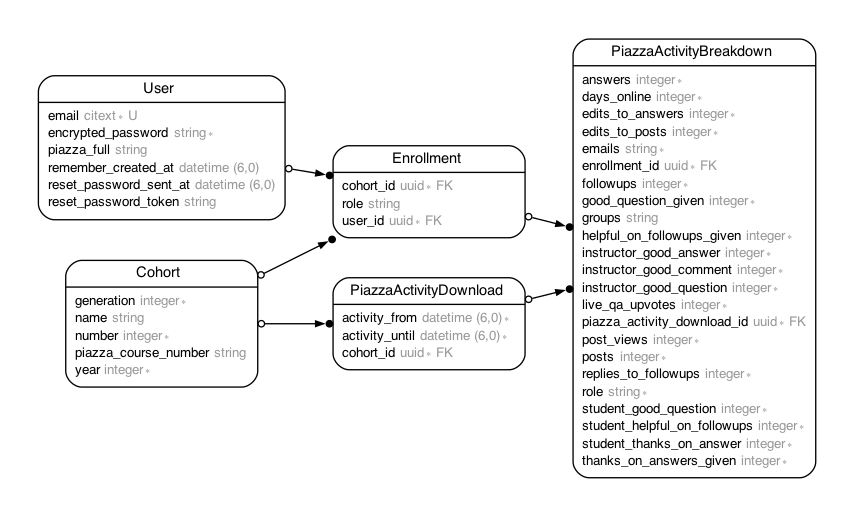
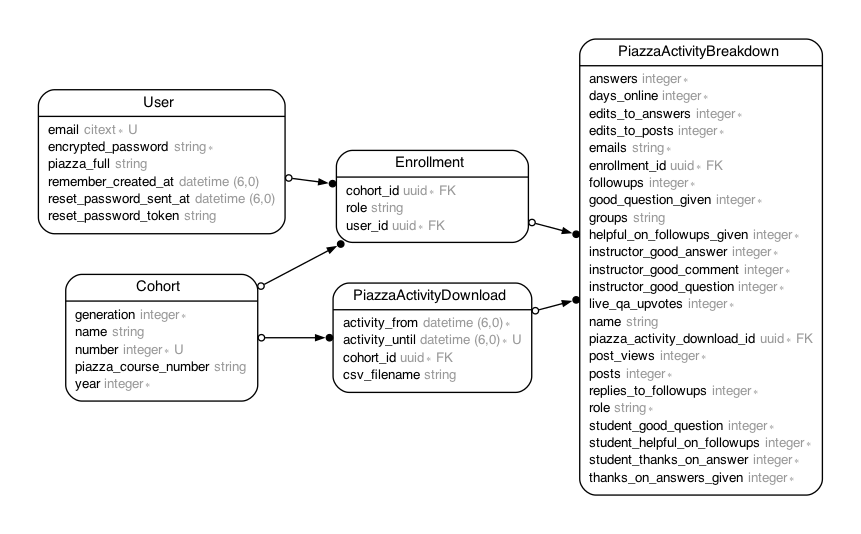
Add ability to upload Piazza data

Changed region(s): [[0.0304, 0.0619, 0.9742, 0.9284]]

diff --git a/app/models/piazza_activity_download.rb b/app/models/piazza_activity_download.rb
@@ -5,6 +5,7 @@
 #  id             :uuid             not null, primary key
 #  activity_from  :datetime         not null
 #  activity_until :datetime         not null
+#  csv_filename   :string
 #  created_at     :datetime         not null
 #  updated_at     :datetime         not null
 #  cohort_id      :uuid             not null
@@ -18,10 +19,47 @@
 #  fk_rails_...  (cohort_id => cohorts.id)
 #
 class PiazzaActivityDownload < ApplicationRecord
+  attr_accessor :csv_file
+
   belongs_to :cohort
 
   has_many :piazza_activity_breakdowns, dependent: :destroy
 
   validates :activity_from, presence: true
-  validates :activity_until, presence: true
+  validates :activity_until,
+    presence: true,
+    uniqueness: {scope: [:activity_from, :cohort]}
+  validates :csv_file, presence: true
+
+  after_create :process_csv
+
+  def process_csv
+    self.csv_filename = csv_file.original_filename
+
+    options = {key_mapping: {"live_q&a_upvotes": :live_qa_upvotes}}
+
+    csv = SmarterCSV.process(csv_file, options)
+
+    csv.each do |row|
+      emails = row.fetch(:emails).split(";").map(&:strip)
+
+      user = User.where(email: emails).first
+      
+      if user.blank?
+        user = User.new(email: emails.first, password: SecureRandom.hex(16))       
+      end
+
+      user.piazza_full = row.fetch(:name, "None provided")
+      user.save
+      ap user.errors.full_messages if user.errors.any?
+      ap user if user.errors.any?
+
+      enrollment = Enrollment.find_or_create_by(user: user, cohort: cohort) do |the_enrollment|
+        the_enrollment.role = row.fetch(:role)
+      end
+
+      piazza_activity_breakdown = piazza_activity_breakdowns.
+        create(enrollment:, **row)
+    end
+  end
 end

diff --git a/db/schema.rb b/db/schema.rb
@@ -10,7 +10,7 @@
 #
 # It's strongly recommended that you check this file into your version control system.
 
-ActiveRecord::Schema[7.0].define(version: 2023_03_10_174420) do
+ActiveRecord::Schema[7.0].define(version: 2023_03_14_202312) do
   # These are extensions that must be enabled in order to support this database
   enable_extension "citext"
   enable_extension "pgcrypto"
@@ -38,6 +38,7 @@ ActiveRecord::Schema[7.0].define(version: 2023_03_10_174420) do
 
   create_table "piazza_activity_breakdowns", id: :uuid, default: -> { "gen_random_uuid()" }, force: :cascade do |t|
     t.uuid "enrollment_id", null: false
+    t.string "name"
     t.string "emails", null: false
     t.string "role", null: false
     t.string "groups"
@@ -72,6 +73,7 @@ ActiveRecord::Schema[7.0].define(version: 2023_03_10_174420) do
     t.uuid "cohort_id", null: false
     t.datetime "created_at", null: false
     t.datetime "updated_at", null: false
+    t.string "csv_filename"
     t.index ["cohort_id"], name: "index_piazza_activity_downloads_on_cohort_id"
   end
 

diff --git a/db/seeds.rb b/db/seeds.rb
@@ -5,3 +5,26 @@
 #
 #   movies = Movie.create([{ name: "Star Wars" }, { name: "Lord of the Rings" }])
 #   Character.create(name: "Luke", movie: movies.first)
+
+Cohort.create(
+  [
+    {
+      year: 2022,
+      generation: 1,
+      number: 1,
+      name: "The Pioneers"
+    },
+    {
+      year: 2023,
+      generation: 1,
+      number: 1,
+      name: "Hash Rockets"
+    },
+    {
+      year: 2023,
+      generation: 2,
+      number: 1,
+      name: "Fullstack Pancakes"
+    }
+  ]
+)

diff --git a/app/models/piazza_activity_breakdown.rb b/app/models/piazza_activity_breakdown.rb
@@ -16,6 +16,7 @@
 #  instructor_good_comment      :integer          not null
 #  instructor_good_question     :integer          not null
 #  live_qa_upvotes              :integer          not null
+#  name                         :string
 #  post_views                   :integer          not null
 #  posts                        :integer          not null
 #  replies_to_followups         :integer          not null

diff --git a/spec/models/piazza_activity_breakdown_spec.rb b/spec/models/piazza_activity_breakdown_spec.rb
@@ -16,6 +16,7 @@
 #  instructor_good_comment      :integer          not null
 #  instructor_good_question     :integer          not null
 #  live_qa_upvotes              :integer          not null
+#  name                         :string
 #  post_views                   :integer          not null
 #  posts                        :integer          not null
 #  replies_to_followups         :integer          not null

diff --git a/app/controllers/piazza_activity_downloads_controller.rb b/app/controllers/piazza_activity_downloads_controller.rb
@@ -66,6 +66,6 @@ class PiazzaActivityDownloadsController < ApplicationController
 
   # Only allow a list of trusted parameters through.
   def piazza_activity_download_params
-    params.require(:piazza_activity_download).permit(:activity_from, :activity_until, :cohort_id)
+    params.require(:piazza_activity_download).permit(:activity_from, :activity_until, :cohort_id, :csv_file)
   end
 end

diff --git a/db/migrate/20230310174420_create_piazza_activity_breakdowns.rb b/db/migrate/20230310174420_create_piazza_activity_breakdowns.rb
@@ -2,6 +2,7 @@ class CreatePiazzaActivityBreakdowns < ActiveRecord::Migration[7.0]
   def change
     create_table :piazza_activity_breakdowns, id: :uuid do |t|
       t.references :enrollment, null: false, foreign_key: true, type: :uuid
+      t.string :name
       t.string :emails, null: false
       t.string :role, null: false
       t.string :groups

diff --git a/spec/models/piazza_activity_download_spec.rb b/spec/models/piazza_activity_download_spec.rb
@@ -5,6 +5,7 @@
 #  id             :uuid             not null, primary key
 #  activity_from  :datetime         not null
 #  activity_until :datetime         not null
+#  csv_filename   :string
 #  created_at     :datetime         not null
 #  updated_at     :datetime         not null
 #  cohort_id      :uuid             not null

diff --git a/app/models/cohort.rb b/app/models/cohort.rb
@@ -22,4 +22,10 @@ class Cohort < ApplicationRecord
   validates :number,
     presence: true,
     uniqueness: {scope: ["generation", "year"]}
+
+  scope :default_order, -> { order(:year, :generation, :number)}
+
+  def code
+    "#{year}-#{generation}.#{number}"
+  end
 end

diff --git a/app/controllers/cohorts_controller.rb b/app/controllers/cohorts_controller.rb
@@ -3,7 +3,7 @@ class CohortsController < ApplicationController
 
   # GET /cohorts or /cohorts.json
   def index
-    @cohorts = Cohort.all
+    @cohorts = Cohort.all.default_order
   end
 
   # GET /cohorts/1 or /cohorts/1.json

diff --git a/db/migrate/20230314202312_add_csv_filename_to_piazza_activity_downloads.rb b/db/migrate/20230314202312_add_csv_filename_to_piazza_activity_downloads.rb
@@ -1,0 +1,5 @@
+class AddCsvFilenameToPiazzaActivityDownloads < ActiveRecord::Migration[7.0]
+  def change
+    add_column :piazza_activity_downloads, :csv_filename, :string
+  end
+end
